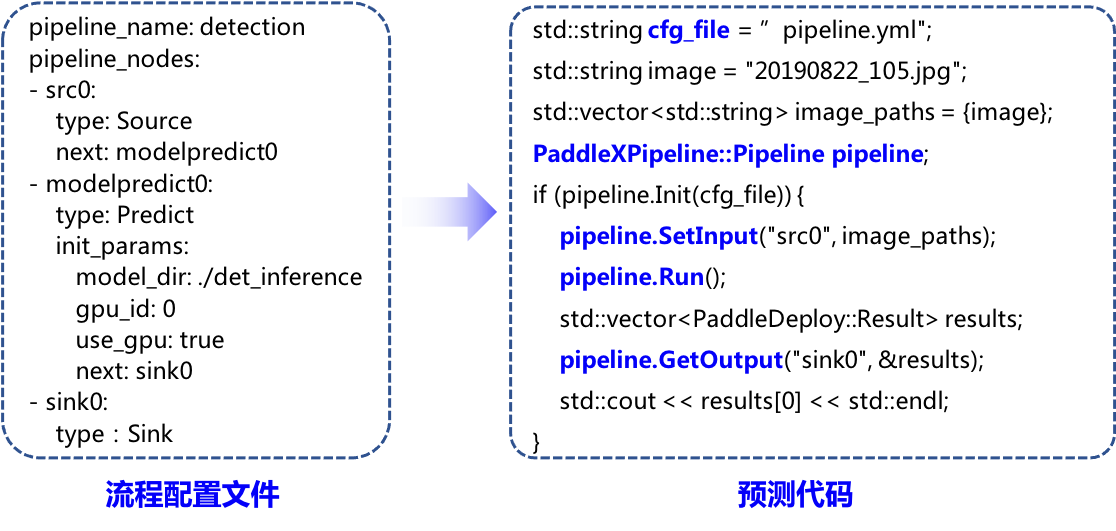
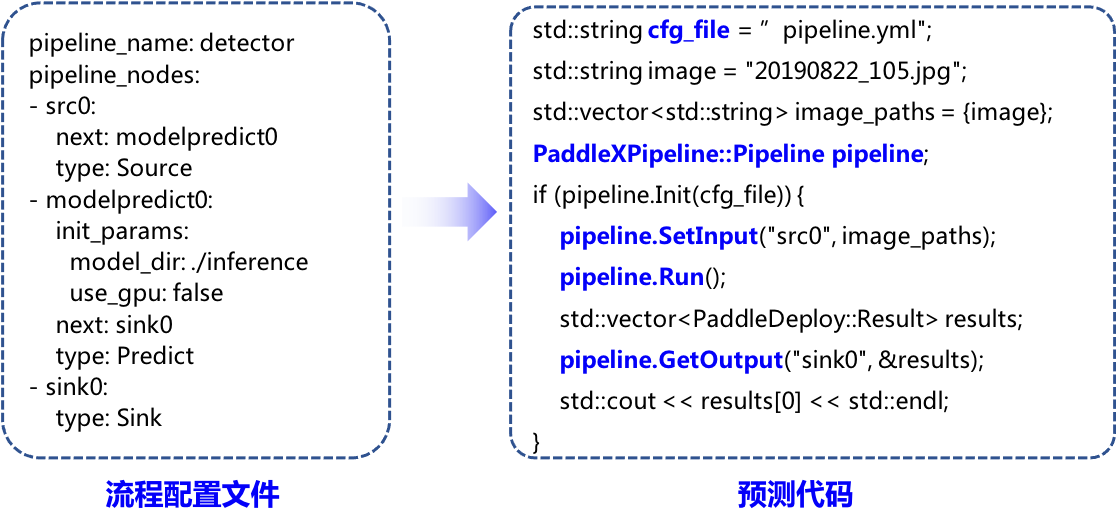
fix conflicts

Changed region(s): [[0.0305, 0.0301, 0.3351, 0.8437]]

diff --git a/dygraph/deploy/cpp/docs/manufacture_sdk/README.md b/dygraph/deploy/cpp/docs/manufacture_sdk/README.md
@@ -55,23 +55,25 @@ Manufature SDK的文件夹结构如下所示：
 PaddleX的模型导出后都会在模型文件夹中自动生成一个名为`pipeline.yml`流程编排文件，下面展示单一检测模型的流程配置文件：
 
 ```
-pipeline_name: detection
+pipeline_name: detector
 pipeline_nodes:
 - src0:
-    type: Source
     next: decode0
+    type: Source
 - decode0:
+    next: predict0
     type: Decode
-    next: modelpredict0
-- modelpredict0:
-    type: Predict
+- predict0:
     init_params:
-       model_dir: ./det_inference
-       gpu_id: 0
-       use_gpu: true
-       next: sink0
+      gpu_id: 0
+      model_dir: test_inference/inference_model
+      use_gpu: false
+      use_trt: false
+    next: sink0
+    type: Predict
 - sink0:
-    type：Sink
+    type: Sink
+version: 1.0.0
 ```
 
 从上面示例可以看出，Pipeline配置文件是一个存储字典的`yaml`文件，文件中**必须包含`pipeline_name`和`pipeline_nodes`两个关键字**。每个关键词和键值说明如下：
